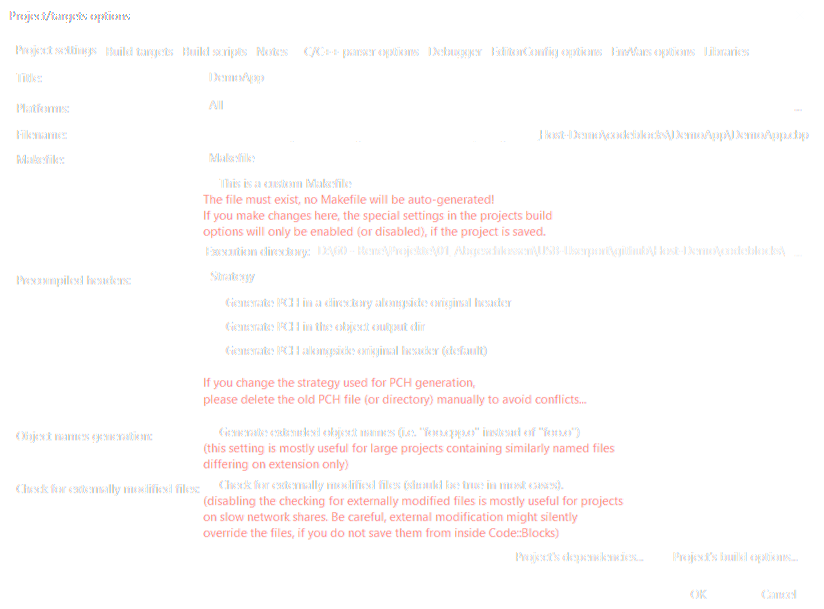
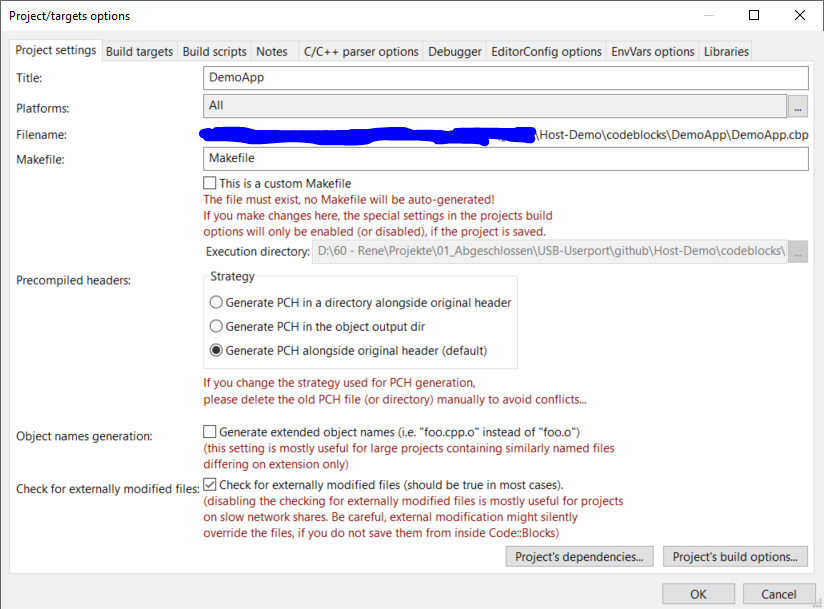
reworks a broken image.

diff --git a/Host-Demo/codeblocks/README.md b/Host-Demo/codeblocks/README.md
@@ -242,15 +242,15 @@ C::B => Project => Build Options => Release => Compiler Settings => Defines
 ![C::B => Project => Build Options => Release => Compiler Settings => Defines](./CodeBlocksSetup/BuildOptions/DemoApp-Release-CompilerSettings-Defines.PNG)
 
 C::B => Project => Build Options => Release => Linker Settings
-![C::B => Project => Build Options => Release => Linker Settings](./CodeBlocksSetup/BuildOptions/DemoApp-Release-LinkerSettings.PNG)
+![C::B => Project => Build Options => Release => Linker Settings](./CodeBlocksSetup/BuildOptions/DemoApp-Release-LinkerSettings.PNG)  
+**To get the hidapi compiled fully into the release build set "-lsetupapi"**,
+otherwise the linker will claim on things not found.
 
 C::B => Project => Build Options => Release => Search Dirs => Compiler
 ![C::B => Project => Build Options => Release => Search Dirs => Compiler](./CodeBlocksSetup/BuildOptions/DemoApp-Release-SearchDirs-Compiler.PNG)
 
 C::B => Project => Build Options => Release => Search Dirs => Linker
-![C::B => Project => Build Options => Release => Search Dirs => Linker](./CodeBlocksSetup/BuildOptions/DemoApp-Release-SearchDirs-Linker.PNG)  
-To get the hidapi compiled fully into the release build set "-lsetupapi",
-otherwise the linker will claim on things not found.
+![C::B => Project => Build Options => Release => Search Dirs => Linker](./CodeBlocksSetup/BuildOptions/DemoApp-Release-SearchDirs-Linker.PNG)
 
 C::B => Project => Build Options => Release => Search Dirs => Resource Compiler
 ![C::B => Project => Build Options => Release => Search Dirs => Resource Compiler](./CodeBlocksSetup/BuildOptions/DemoApp-Release-SearchDirs-ResourceCompiler.PNG)
